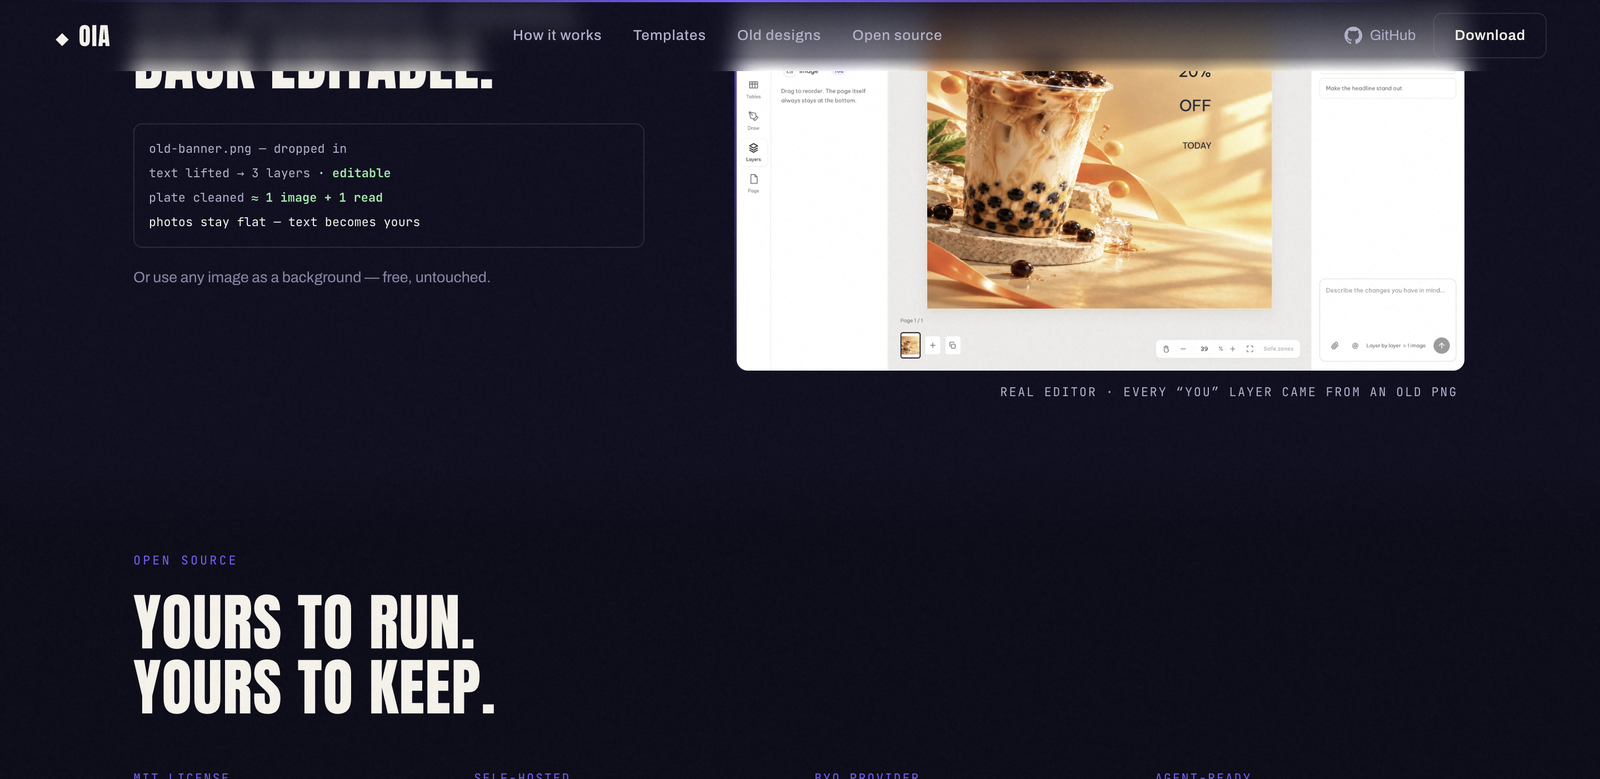
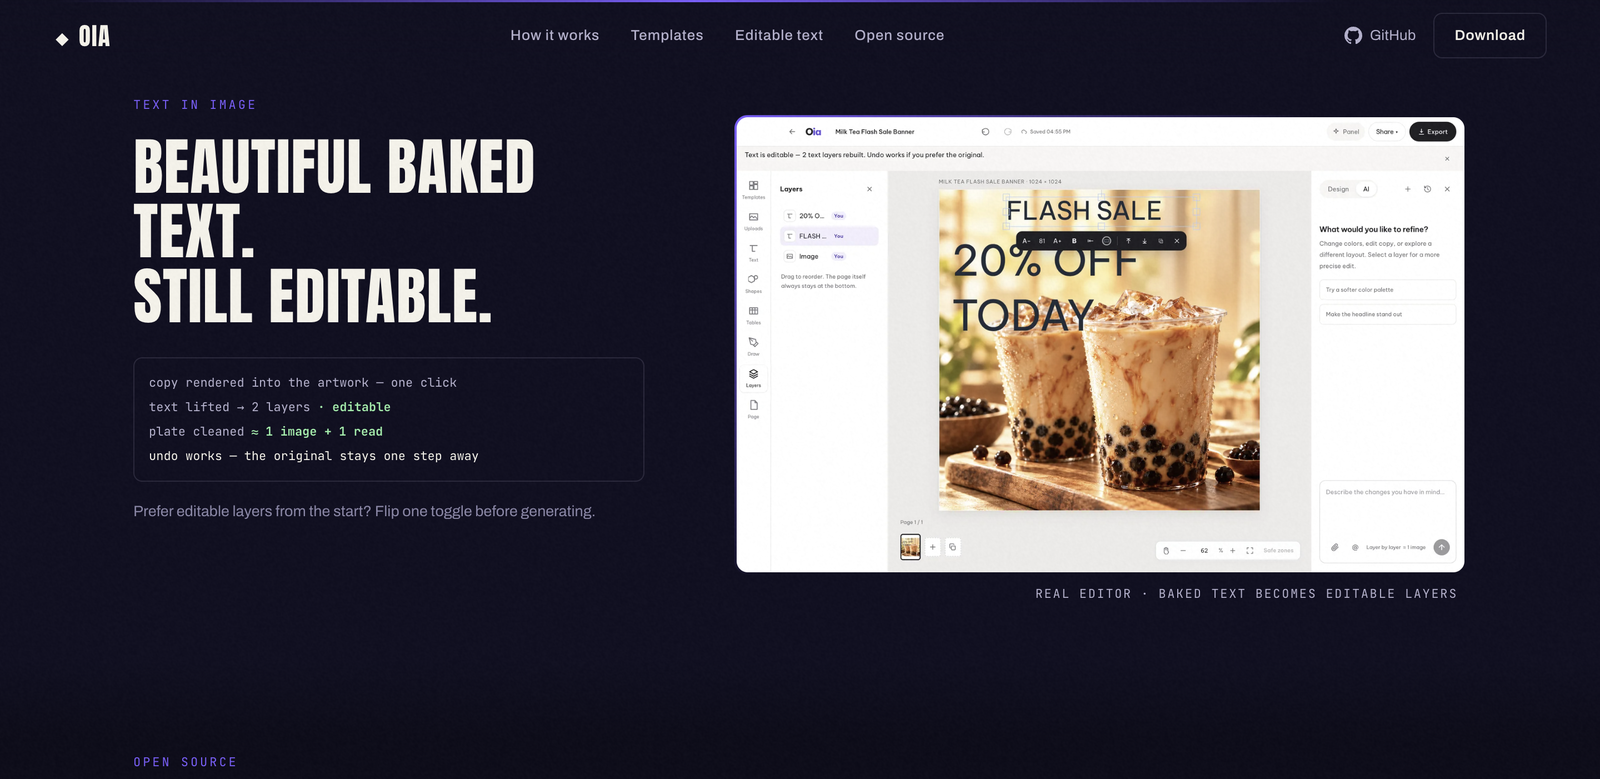
feat(landing): the D16 story — beautiful baked text, still editable
The two real frames now tell the owner-approved direction (D16):

- workflow frame: variant card over the NEW default banner — copy
  rendered INTO the artwork by the image model (3D display type,
  English-only), "Replace selected layer" enabled
- #bring section retitled "Beautiful baked text. Still editable." —
  telemetry walks the one-click path (baked copy -> 2 editable
  layers, plate cleaned ~1 image + 1 read, undo one step away) and
  notes the composer toggle for layers-from-the-start; nav label
  "Editable text"
- both frames are real screenshots from the live codex run that
  verified D16 end to end (banner + in-editor deconstruct + variant)

qa-shots to re-shoot after merge with the local server.

diff --git a/site/index.html b/site/index.html
@@ -44,7 +44,7 @@
   <div class="navlinks">
     <a href="#layers">How it works</a>
     <a href="#templates">Templates</a>
-    <a href="#bring">Old designs</a>
+    <a href="#bring">Editable text</a>
     <a href="#oss">Open source</a>
   </div>
   <div class="navcta">
@@ -180,7 +180,7 @@
       </div>
     </div>
     <div class="editor-frame">
-      <img loading="lazy" src="assets/editor.webp" alt="Oia editor, AI tab: a real variant card — “make it warmer and bolder” — waits to replace the selected artwork layer; the canvas stays untouched until it is applied" width="1600" height="1000">
+      <img loading="lazy" src="assets/editor.webp" alt="Oia editor, AI tab: a variant card — “make the background deeper and moodier” — waits to replace the selected image layer; the canvas stays untouched until it is applied" width="1600" height="1000">
       <span class="cap mono">real editor · AI variants — apply only what you keep</span>
     </div>
   </div>
@@ -189,19 +189,19 @@
 <section id="bring">
   <div class="wrap bring-grid">
     <div>
-      <p class="kicker">Bring an image</p>
-      <h2>Old designs come back editable.</h2>
+      <p class="kicker">Text in image</p>
+      <h2>Beautiful baked text.<br>Still editable.</h2>
       <div class="bring-log">
-        <div>old-banner.png — dropped in</div>
-        <div>text lifted → 3 layers <b>· editable</b></div>
+        <div>copy rendered into the artwork — one click</div>
+        <div>text lifted → 2 layers <b>· editable</b></div>
         <div>plate cleaned <b>≈ 1 image + 1 read</b></div>
-        <div class="trust-line">photos stay flat — text becomes yours</div>
+        <div class="trust-line">undo works — the original stays one step away</div>
       </div>
-      <p class="bring-note">Or use any image as a background — free, untouched.</p>
+      <p class="bring-note">Prefer editable layers from the start? Flip one toggle before generating.</p>
     </div>
     <div class="editor-frame">
-      <img loading="lazy" src="assets/deconstruct.webp" alt="Oia editor: an exported banner dropped back in — FLASH SALE, 20%, OFF and TODAY are editable text layers again, each badged You" width="1600" height="1000">
-      <span class="cap mono">real editor · every “You” layer came from an old PNG</span>
+      <img loading="lazy" src="assets/deconstruct.webp" alt="Oia editor: one click after generation — FLASH SALE and 20% OFF TODAY rebuilt as editable text layers (badged You) over the cleaned artwork; the notice reads “Text is editable — 2 text layers rebuilt”" width="1600" height="1000">
+      <span class="cap mono">real editor · baked text becomes editable layers</span>
     </div>
   </div>
 </section>
